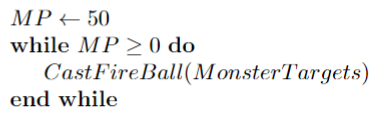
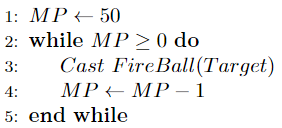
batch rebuild

Changed region(s): [[0.0, 0.0513, 0.9929, 0.9744], [0.0, 0.6667, 0.0851, 0.7692]]

diff --git a/note/LaTexPseudoCode/index.html b/note/LaTexPseudoCode/index.html
@@ -169,15 +169,35 @@ if (!doNotTrack) {
 <p>要用這個流派來畫魔法陣，基底是</p>
 <pre tabindex="0"><code>\usepackage{algorithm} 
 \usepackage{algpseudocode}
-</code></pre><p><code>algorithm</code>讓你可以幫魔法陣下標題，<code>algpseudocode</code>則掌管魔法陣本體。
-我們先來寫一段：</p>
-<pre tabindex="0"><code class="language-LaTex=" data-lang="LaTex=">\begin{algorithmic}
-\State $MP \gets 50$
-\While{$MP \ge 0$}
-    \State $Cast FireBall(MonsterTargets)$
-\EndWhile
-\end{algorithmic}
-</code></pre><p>灌入魔力後會變成這樣：
+</code></pre><p><code>algorithm</code>讓你可以幫魔法陣下標題，<code>algpseudocode</code>則掌管魔法陣本體。</p>
+<h3 id="基本知識">基本知識</h3>
+<p>一節咒文的構成有固定格式：</p>
+<p>我們先來寫一段：</p>
+<div class="highlight"><div class="chroma">
+<table class="lntable"><tr><td class="lntd">
+<pre tabindex="0" class="chroma"><code><span class="lnt">1
+</span><span class="lnt">2
+</span><span class="lnt">3
+</span><span class="lnt">4
+</span><span class="lnt">5
+</span><span class="lnt">6
+</span><span class="lnt">7
+</span><span class="lnt">8
+</span><span class="lnt">9
+</span></code></pre></td>
+<td class="lntd">
+<pre tabindex="0" class="chroma"><code class="language-LaTex" data-lang="LaTex"><span class="k">\begin</span><span class="nb">{</span>algorithmic<span class="nb">}</span>[1] <span class="c">% 後面接 [1] 會產生行號，增加你魔法陣的可讀性。 [n] 裡面的數字 n，可以決定每 n 行標示一次行號。
+</span><span class="c"></span>
+<span class="k">\State</span> <span class="s">$</span><span class="nb">MP </span><span class="nv">\gets</span><span class="nb"> </span><span class="m">50</span><span class="s">$</span>
+<span class="k">\While</span><span class="nb">{</span><span class="s">$</span><span class="nb">MP </span><span class="nv">\ge</span><span class="nb"> </span><span class="m">0</span><span class="s">$</span><span class="nb">}</span>
+    <span class="k">\State</span> <span class="s">$</span><span class="nb">Cast</span><span class="nv">\ </span><span class="nb"> FireBall</span><span class="o">(</span><span class="nb">Target</span><span class="o">)</span><span class="s">$</span>
+    <span class="k">\State</span> <span class="s">$</span><span class="nb">MP </span><span class="nv">\gets</span><span class="nb"> MP</span><span class="o">-</span><span class="m">1</span><span class="s">$</span>
+<span class="k">\EndWhile</span>
+
+<span class="k">\end</span><span class="nb">{</span>algorithmic<span class="nb">}</span>
+</code></pre></td></tr></table>
+</div>
+</div><p>灌入魔力後會變成這樣：
 <figure 
 	>
 	<a href="/images/latexalgo1.png" >
@@ -416,7 +436,11 @@ if (!doNotTrack) {
                     <nav id="TableOfContents">
   <ol>
     <li><a href="#簡介必讀">簡介(必讀!!!)</a></li>
-    <li><a href="#algorithm--algpseudocode">algorithm + algpseudocode</a></li>
+    <li><a href="#algorithm--algpseudocode">algorithm + algpseudocode</a>
+      <ol>
+        <li><a href="#基本知識">基本知識</a></li>
+      </ol>
+    </li>
   </ol>
 </nav>
                 </div>
